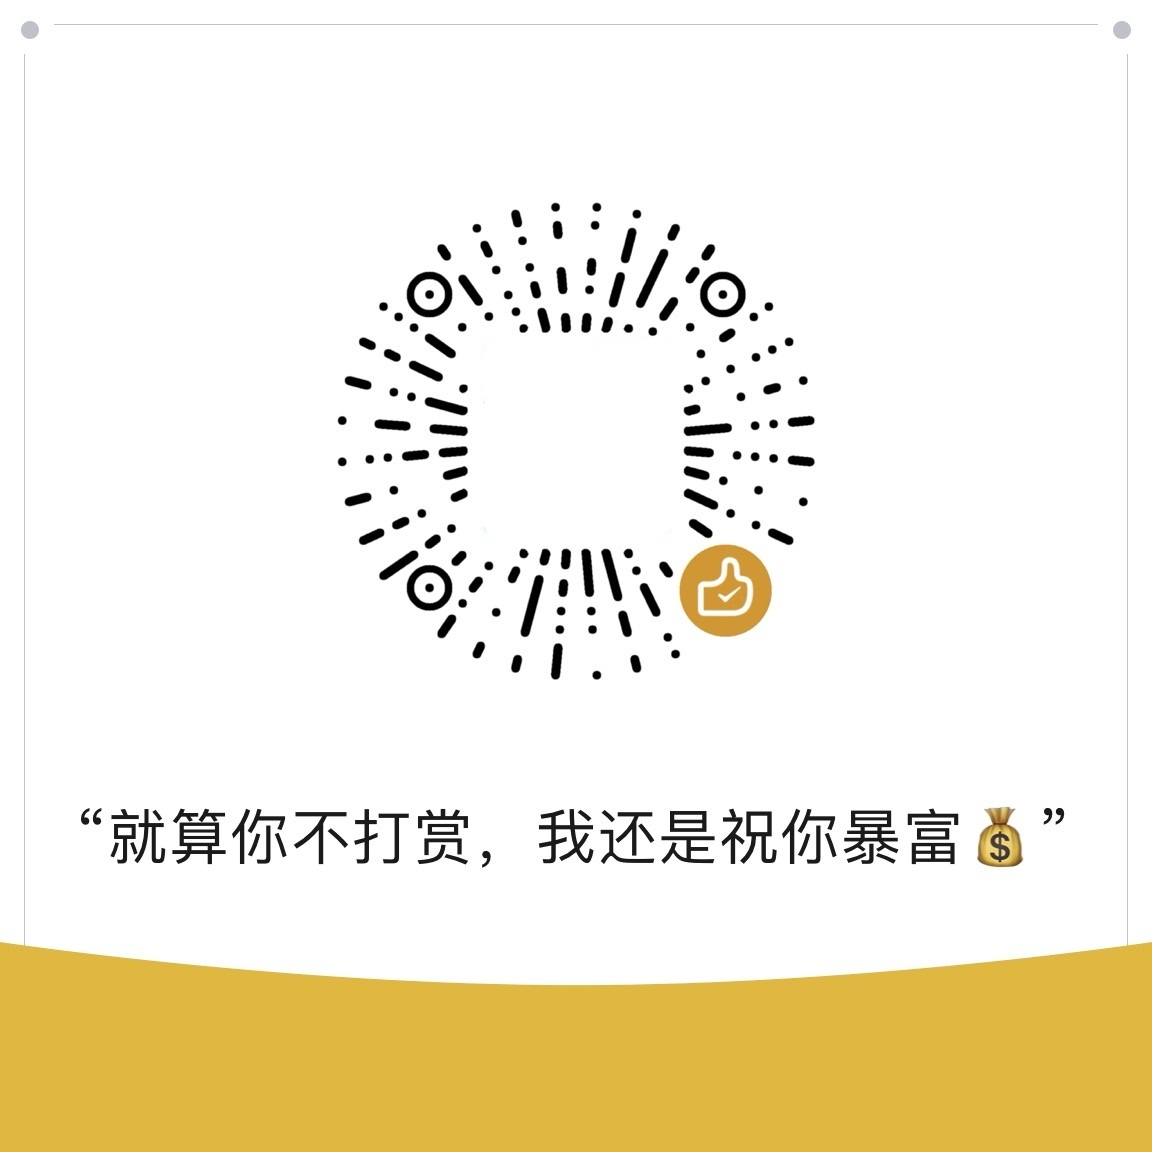
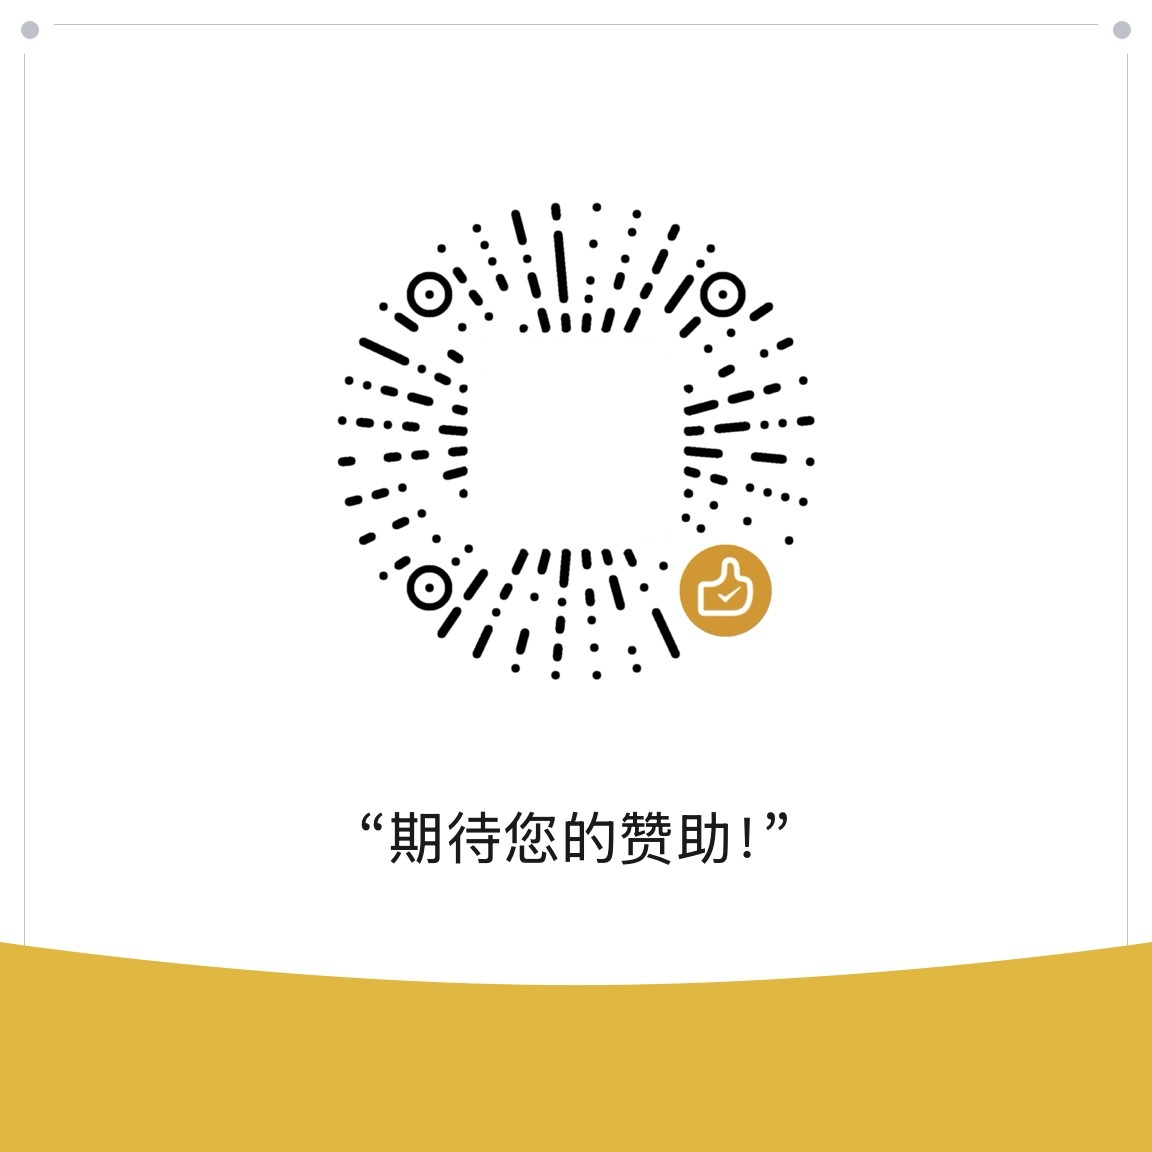
:memo: update README.md

diff --git a/README.md b/README.md
@@ -107,12 +107,13 @@ https://github.com/freeok/so-novel/issues?q=label%3A%22usage%20question%22
 
 https://github.com/freeok/so-novel/discussions?discussions_q=
 
-## 支持
+## 支持 & 赞助
 
-如果觉得有所帮助，欢迎扫码赞赏☕，或点击顶部的⭐Star
-按钮支持！🚀这将是我们持续更新的动力源泉！同时，你也能第一时间获取到最新的更新动态。💡❤
+如果觉得有所帮助，欢迎扫码赞助☕、点击项目主页顶部的⭐Star 按钮支持！ 
 
-| 支付宝赞赏                                                           | 微信赞赏                                                           |
+🚀这将是我们持续更新的动力源泉！同时，你也能第一时间获取到最新的更新动态。💡❤
+
+| 支付宝赞助                                                           | 微信赞助                                                           |
 |-----------------------------------------------------------------|----------------------------------------------------------------|
 | <img src="assets/donation-alipay.png" alt="支付宝收款码" width="197"> | <img src="assets/donation-wechat.jpg" alt="微信赞赏码" width="197"> |
 
